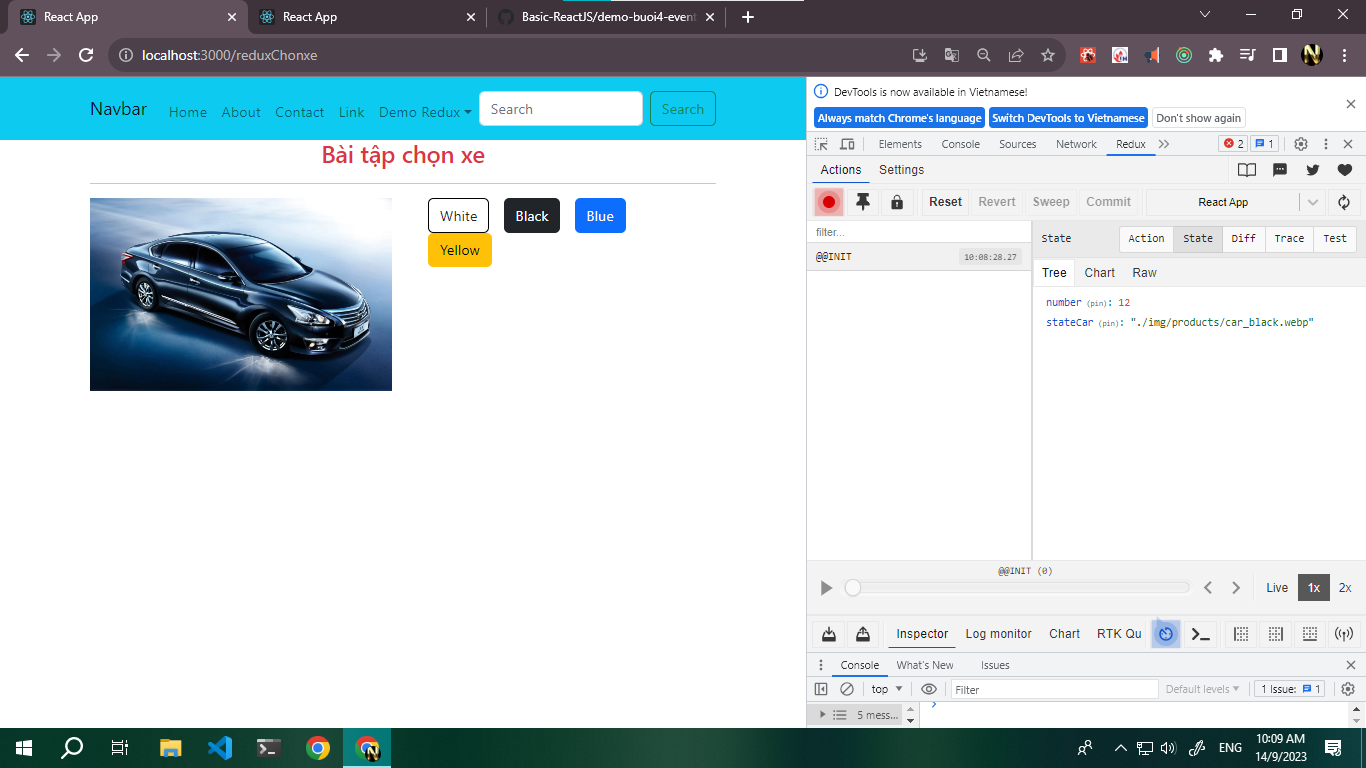
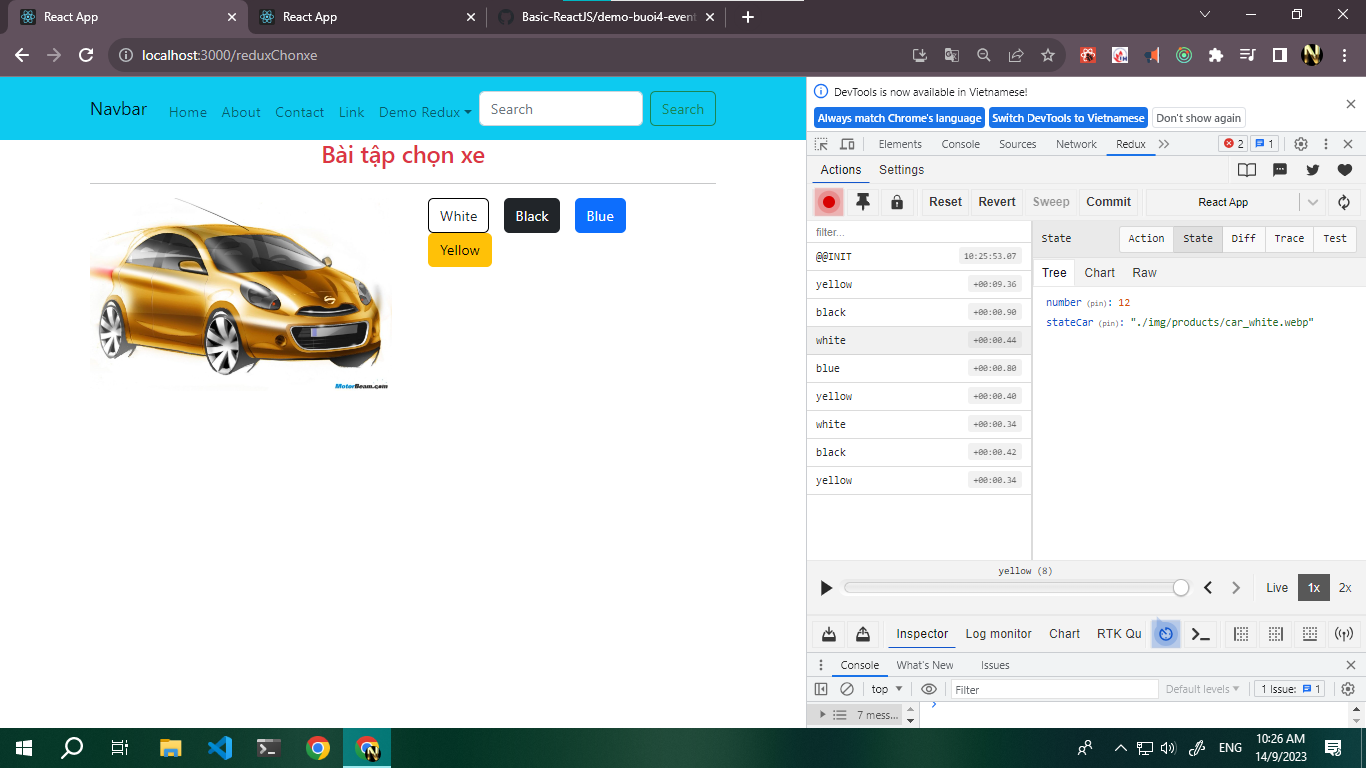
finish BT chon xe

diff --git a/demo-buoi8-redux/src/Page/DemoRedux/DemoChonXe/DemoChonXe.jsx b/demo-buoi8-redux/src/Page/DemoRedux/DemoChonXe/DemoChonXe.jsx
@@ -1,40 +1,57 @@
-import React, { Component } from 'react'
-import PropTypes from 'prop-types'
-import { connect } from 'react-redux'
+import React, { Component } from "react";
+import PropTypes from "prop-types";
+import { connect } from "react-redux";
 
 class DemoChonXe extends Component {
   static propTypes = {
-    prop: PropTypes
-  }
+    prop: PropTypes,
+  };
+
+  bandleCar = (color) => {
+    // buoc 2: viet hàm gửi datalen redux
+    const action = {
+      type: color,
+    };
+    this.props.dispatch(action);
+  };
 
   render() {
+    // console.log(this.props);
+
     return (
-      <div className='container'>
+      <div className="container">
         <h3 className="text-center text-danger">Bài tập chọn xe</h3>
         <hr />
         <div className="row">
-            <div className="col-6">
-                <img src="./img/products/car_black.webp" alt="my car" className='w-100' />
+          <div className="col-6">
+            <img src={this.props.img} alt="my car" className="w-100" />
+          </div>
+          <div className="col-6">
+            <div className="mx-2">
+              <button 
+                onClick={() => this.bandleCar("white")}
+                class="btn btn-white mx-2"
+                style={{ border: "1", borderColor: "black" }}
+              >
+                White
+              </button>
+              <button className="btn btn-dark mx-2"
+              onClick={() => this.bandleCar("black")}> Black</button>
+              <button className="btn btn-primary mx-2"
+              onClick={() => this.bandleCar("blue")}> Blue</button>
+              <button className="btn btn-warning mx-2"
+              onClick={() => this.bandleCar("yellow")}> Yellow</button>
             </div>
-            <div className="col-6">
-                <div className="mx-2">
-                    <button  class="btn btn-white mx-2" style={{"border": "1", borderColor:'black'}}>White</button>
-                    <button className="btn btn-dark mx-2"> Black</button>
-                    <button className="btn btn-primary mx-2"> Blue</button>
-                    <button className="btn btn-warning mx-2"> Yellow</button>
-                </div>
-            </div>
+          </div>
         </div>
-        
       </div>
-    )
+    );
   }
 }
 
 const mapStateToProps = (state) => ({
-  
+  //buoc 1: khongo can return vi ham viết tắt ({})
+  img: state.stateCar,
+});
 
-    
-})
-
-export default connect(mapStateToProps )(DemoChonXe)
+export default connect(mapStateToProps)(DemoChonXe);

diff --git a/demo-buoi8-redux/src/Redux/ConfigStore.jsx b/demo-buoi8-redux/src/Redux/ConfigStore.jsx
@@ -1,28 +1,45 @@
-import {createStore, combineReducers} from 'redux'
+import { createStore, combineReducers } from "redux";
 
 const rootReducer = combineReducers({
-    // Nơi chứa các state của ứng dụng
+  // Nơi chứa các state của ứng dụng
 
-    number: (state = 12, action) => {
-        switch (action.type) {
-            case "TANG_SL":
-                //b1: lay gia tri tu  payload len
-                const {payload} = action;
-                // b2: thay doi state
-                state += payload;
-                // b3 return ve state moi
-                return state;
-        
-            default:
-                break;
-        }
+  number: (state = 12, action) => {
+    switch (action.type) {
+      case "TANG_SL":
+        //b1: lay gia tri tu  payload len
+        const { payload } = action;
+        // b2: thay doi state
+        state += payload;
+        // b3 return ve state moi
         return state;
-    },
-    stateCar: (state = "./img/products/car_black.webp", action) => {
-        return state;
+
+      default:
+        break;
     }
+    return state;
+  },
+  stateCar: (state = "./img/products/car_black.webp", action) => {
+    // buoc 3: nhận dât và cập nhật
+    switch (action.type) {
+      case "white":
+        state = "./img/products/car_white.webp";
+        break;
+      case "yellow":
+        state = "./img/products/car_yellow.webp";
+        break;
+      case "blue":
+        state = "./img/products/car_blue.webp";
+        break;
 
+      default:
+        state = "./img/products/car_black.webp";
+        break;
+    }
+    return state;
+  },
+});
 
-})
-
-export const store = createStore(rootReducer, window.__REDUX_DEVTOOLS_EXTENSION__ && window.__REDUX_DEVTOOLS_EXTENSION__());
+export const store = createStore(
+  rootReducer,
+  window.__REDUX_DEVTOOLS_EXTENSION__ && window.__REDUX_DEVTOOLS_EXTENSION__()
+);
